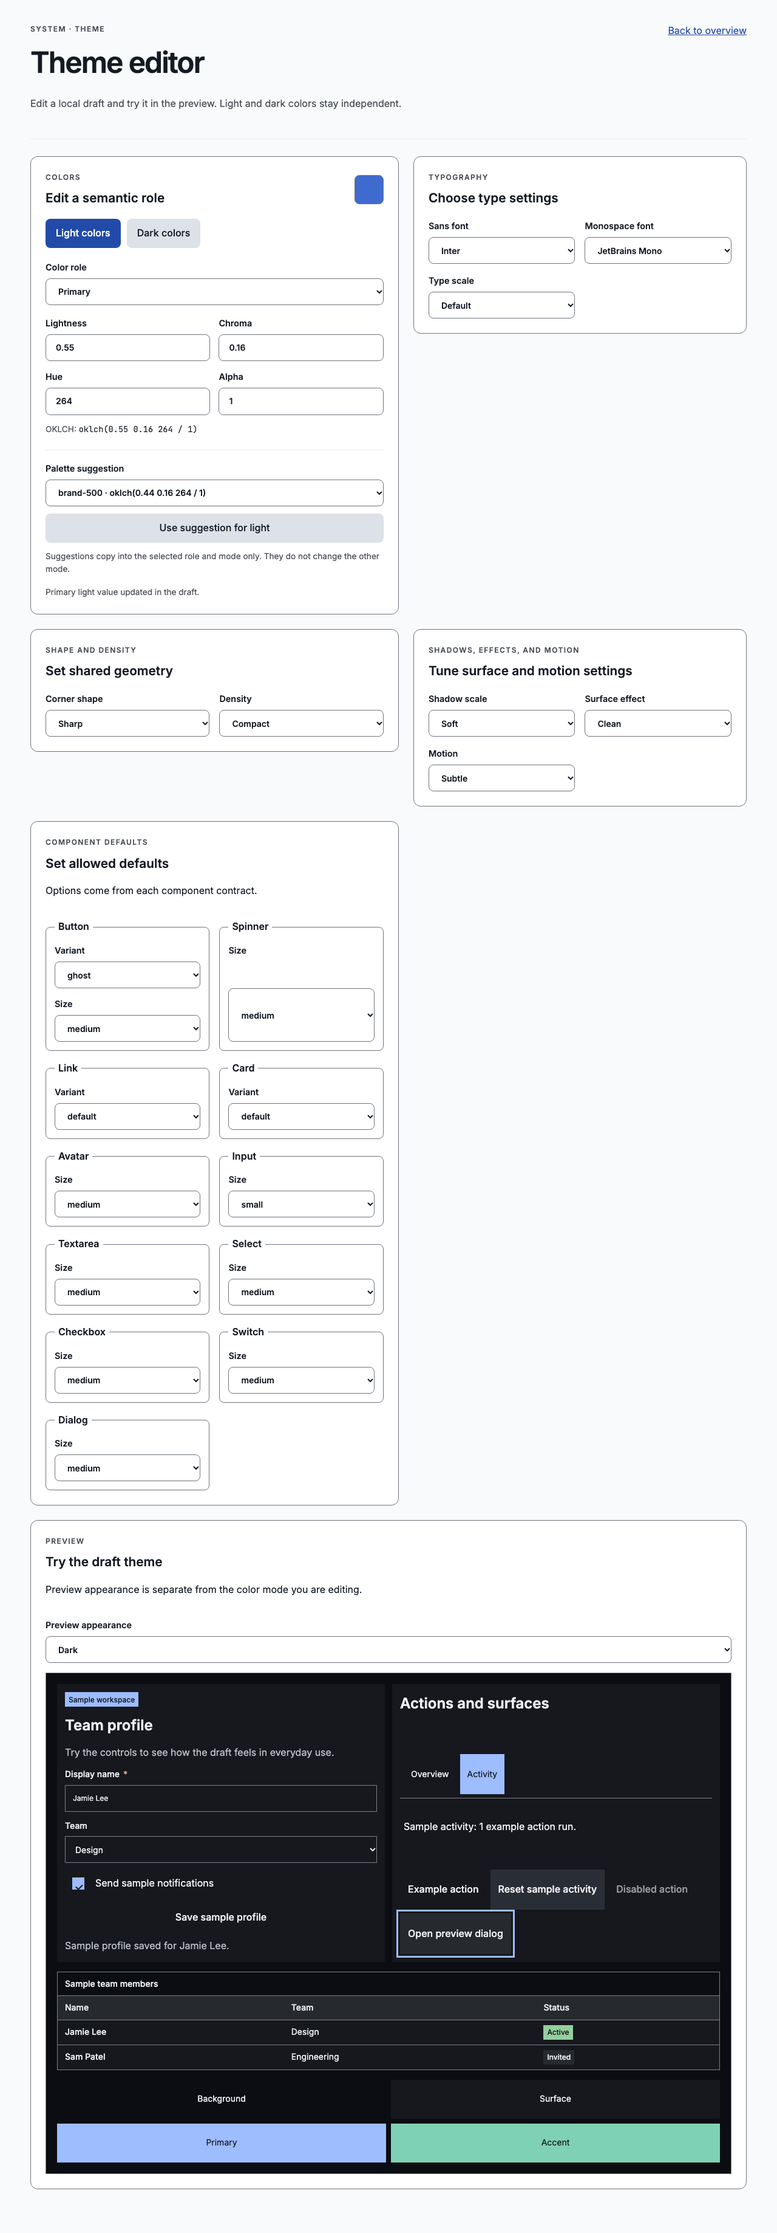
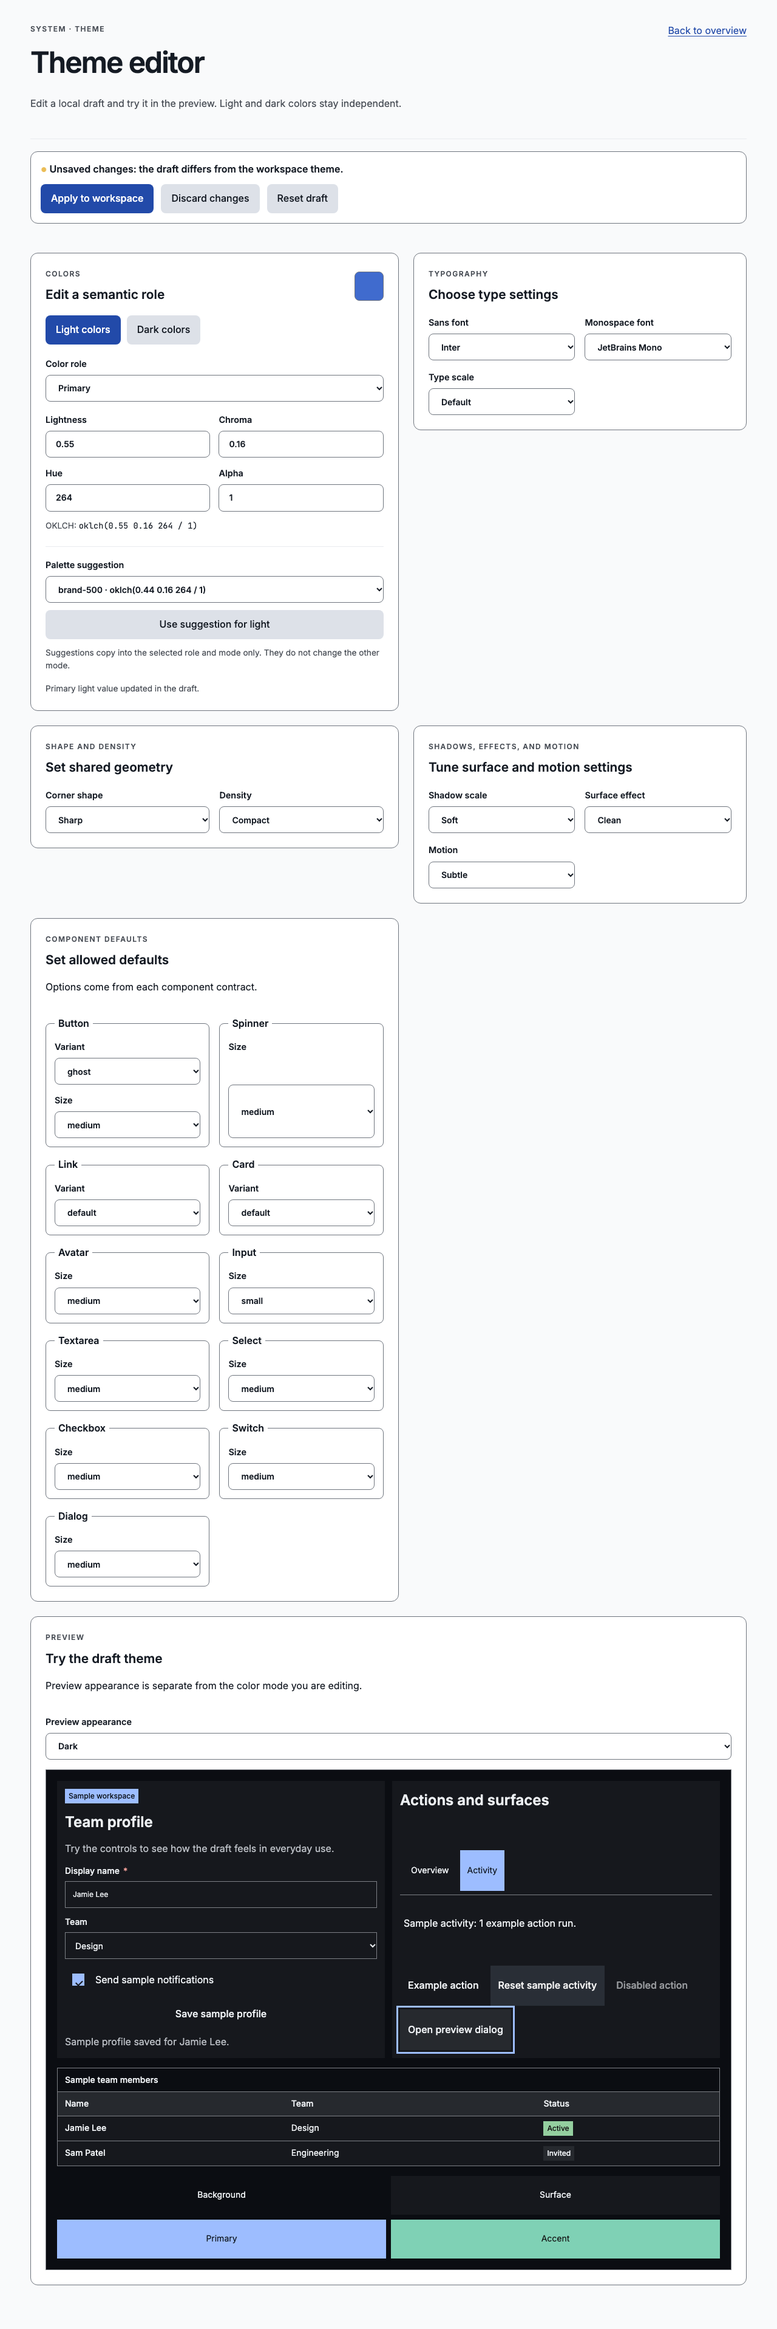
Add M3.5 draft apply, discard, and reset lifecycle

diff --git a/tests/theme-persistence.test.ts b/tests/theme-persistence.test.ts
@@ -5,7 +5,7 @@ import {
   buildThemeBootstrapScript, createPersistenceEnvelope, isAllowedBootstrapValue,
   parseStoredSettings, SETTINGS_STORAGE_KEY,
 } from '@/lib/theme/persistence';
-import { createThemeStores, initializeThemeStores, persistWorkspaceSettings } from '@/lib/theme/stores';
+import { applyDraft, createThemeStores, discardDraft, initializeThemeStores, persistWorkspaceSettings, resetDraft } from '@/lib/theme/stores';
 
 describe('versioned theme settings', () => {
   const settings = { settingsVersion: 1 as const, theme: defaultTheme, appearance: 'system' as const };
@@ -67,5 +67,80 @@ describe('versioned theme settings', () => {
 
   it('keeps the early bootstrap inline script syntactically valid', () => {
     expect(() => new Function(buildThemeBootstrapScript())).not.toThrow();
+  });
+});
+
+describe('draft lifecycle actions', () => {
+  const storageFor = (memory: Map<string, string>) => ({ getItem: (k: string) => memory.get(k) ?? null, setItem: (k: string, v: string) => { memory.set(k, v); } });
+  const edited = { ...defaultTheme, radius: defaultTheme.radius === 'curvy' ? 'sharp' as const : 'curvy' as const };
+
+  function setup(appearance: 'light' | 'dark' | 'system' = 'dark') {
+    const memory = new Map([[SETTINGS_STORAGE_KEY, JSON.stringify(createPersistenceEnvelope({ settingsVersion: 1, theme: defaultTheme, appearance }, 2, registry))]]);
+    const stores = createThemeStores();
+    initializeThemeStores(stores, registry, storageFor(memory));
+    return { memory, stores };
+  }
+
+  it('tracks unsaved state by settings only, ignoring theme identity', () => {
+    const { stores } = setup();
+    stores.draft.getState().setTheme({ ...defaultTheme, id: 'custom', basedOn: defaultTheme.id });
+    expect(stores.draft.getState().dirty).toBe(false);
+    stores.draft.getState().setTheme(edited);
+    expect(stores.draft.getState().dirty).toBe(true);
+  });
+
+  it('applies the draft with custom identity, bumps the revision once, preserves appearance, and saves', () => {
+    const { memory, stores } = setup('dark');
+    stores.draft.getState().setTheme(edited);
+    expect(applyDraft(stores, registry, storageFor(memory))).toMatchObject({ status: 'applied', persisted: true });
+    const applied = stores.applied.getState();
+    expect(applied.settings.appearance).toBe('dark');
+    expect(applied.settings.theme).toMatchObject({ id: 'custom', basedOn: defaultTheme.id, radius: edited.radius });
+    expect(applied.themeRevision).toBe(3);
+    expect(stores.draft.getState()).toMatchObject({ dirty: false, baseThemeRevision: 3 });
+    const stored = PersistenceEnvelopeSchema.parse(JSON.parse(memory.get(SETTINGS_STORAGE_KEY)!));
+    expect(stored.themeRevision).toBe(3);
+    expect(stored.settings.appearance).toBe('dark');
+    expect(applyDraft(stores, registry, storageFor(memory)).status).toBe('unchanged');
+    expect(stores.applied.getState().themeRevision).toBe(3);
+  });
+
+  it('restores the stock preset identity when the draft matches it again', () => {
+    const { memory, stores } = setup();
+    stores.draft.getState().setTheme(edited);
+    applyDraft(stores, registry, storageFor(memory));
+    resetDraft(stores);
+    applyDraft(stores, registry, storageFor(memory));
+    expect(stores.applied.getState().settings.theme).toEqual(defaultTheme);
+    expect(stores.applied.getState().themeRevision).toBe(4);
+  });
+
+  it('discards to the applied theme and resets to the default preset without touching the workspace', () => {
+    const { memory, stores } = setup();
+    stores.draft.getState().setTheme(edited);
+    applyDraft(stores, registry, storageFor(memory));
+    stores.draft.getState().setTheme({ ...edited, density: 'compact' });
+    discardDraft(stores);
+    expect(stores.draft.getState()).toMatchObject({ theme: stores.applied.getState().settings.theme, dirty: false });
+    const before = memory.get(SETTINGS_STORAGE_KEY);
+    resetDraft(stores);
+    expect(stores.draft.getState().theme).toEqual(defaultTheme);
+    expect(stores.draft.getState().dirty).toBe(true);
+    expect(stores.applied.getState().settings.theme.radius).toBe(edited.radius);
+    expect(memory.get(SETTINGS_STORAGE_KEY)).toBe(before);
+  });
+
+  it('keeps session-only applies out of storage and survives write failures', () => {
+    const session = createThemeStores();
+    initializeThemeStores(session, registry, null);
+    session.draft.getState().setTheme(edited);
+    expect(applyDraft(session, registry, null)).toMatchObject({ status: 'applied', persisted: false });
+    expect(session.applied.getState().settings.theme.radius).toBe(edited.radius);
+    const { stores } = setup();
+    stores.draft.getState().setTheme(edited);
+    const result = applyDraft(stores, registry, { getItem: () => null, setItem: () => { throw new Error('quota'); } });
+    expect(result.persisted).toBe(false);
+    expect(result.notice).toMatch(/could not be saved/);
+    expect(stores.applied.getState().settings.theme.radius).toBe(edited.radius);
   });
 });

diff --git a/app/system/theme/page.tsx b/app/system/theme/page.tsx
@@ -4,10 +4,12 @@ import { useStore } from 'zustand';
 import { ThemeScope } from '@/components/theme/ThemeScope';
 import { useThemeStores } from '@/components/theme/ThemeLifecycleProvider';
 import { Button } from '@/components/ui/button';
+import { Link } from '@/components/ui/link';
 import { Input } from '@/components/ui/input';
 import { Select } from '@/components/ui/select';
 import { registry } from '@/lib/data/registry';
 import type { Mode, Oklch } from '@/lib/contract/schema';
+import { applyDraft, discardDraft, resetDraft } from '@/lib/theme/stores';
 import styles from './theme.module.css';
 import { ThemePreview } from './ThemePreview';
 
@@ -29,6 +31,10 @@ export default function ThemeEditorPage() {
   const stores = useThemeStores();
   const theme = useStore(stores.draft, state => state.theme);
   const setTheme = useStore(stores.draft, state => state.setTheme);
+  const dirty = useStore(stores.draft, state => state.dirty);
+  const persistence = useStore(stores.applied, state => state.persistence);
+  const initialized = useStore(stores.applied, state => state.initialized);
+  const notice = useStore(stores.applied, state => state.notice);
   const [mode, setMode] = useState<Mode>('light');
   const [previewAppearance, setPreviewAppearance] = useState<'light' | 'dark' | 'system'>('light');
   const [role, setRole] = useState<keyof typeof theme.colors.light>('primary');
@@ -69,11 +75,35 @@ export default function ThemeEditorPage() {
     setMessage(`${componentId} ${property} default updated in the draft.`);
   }
 
+  function apply() {
+    let storage: Storage | null = null;
+    try { storage = window.localStorage; } catch { /* Blocked storage leaves the change session-only. */ }
+    try {
+      const result = applyDraft(stores, registry, storage);
+      setMessage(result.status === 'unchanged' ? 'The draft already matches the workspace theme.'
+        : result.persisted ? 'Draft applied to the workspace and saved.' : (result.notice ?? 'Draft applied to the workspace for this session.'));
+    } catch (error) {
+      setMessage(`The draft could not be applied: ${error instanceof Error ? error.message : 'it is not a valid theme.'} Your draft is unchanged.`);
+    }
+  }
+  function discard() { discardDraft(stores); setMessage('Changes discarded. The draft matches the workspace theme.'); }
+  function reset() { resetDraft(stores); setMessage('Draft reset to the default preset. Apply to change the workspace.'); }
+
   return <main className={styles.page}>
     <header className={styles.header}>
       <div><p className={styles.eyebrow}>SYSTEM · THEME</p><h1>Theme editor</h1><p>Edit a local draft and try it in the preview. Light and dark colors stay independent.</p></div>
-      <a href="/">Back to overview</a>
+      <Link href="/">Back to overview</Link>
     </header>
+    <section className={styles.actions} aria-label="Draft actions">
+      <p className={styles.unsaved} data-dirty={dirty}>{dirty ? 'Unsaved changes: the draft differs from the workspace theme.' : 'No unsaved changes.'}</p>
+      <div className={styles.actionButtons}>
+        <Button variant="primary" onClick={apply} disabled={!initialized || !dirty}>Apply to workspace</Button>
+        <Button variant="secondary" onClick={discard} disabled={!dirty}>Discard changes</Button>
+        <Button variant="secondary" onClick={reset}>Reset draft</Button>
+      </div>
+      {persistence === 'session-only' && <p className={styles.status}>Changes stay in this tab and reset on refresh because browser storage is unavailable.</p>}
+      {notice && persistence !== 'session-only' && <p className={styles.status}>{notice}</p>}
+    </section>
     <div className={styles.controls}>
       <section className={styles.panel} aria-labelledby="color-heading">
         <div className={styles.sectionHeading}><div><p className={styles.eyebrow}>COLORS</p><h2 id="color-heading">Edit a semantic role</h2></div><span className={styles.swatch} role="img" aria-label={`${labels[role]} preview`} style={{ backgroundColor: cssColor }} /></div>
@@ -104,7 +134,7 @@ export default function ThemeEditorPage() {
           <Button variant="secondary" onClick={usePaletteSuggestion}>Use suggestion for {mode}</Button>
           <p>Suggestions copy into the selected role and mode only. They do not change the other mode.</p>
         </div>
-        <p role="status" aria-live="polite" className={styles.status}>{message || 'Draft colors stay separate from the workspace until Apply is added.'}</p>
+        <p role="status" aria-live="polite" className={styles.status}>{message || 'Draft colors stay separate from the workspace until you apply them.'}</p>
       </section>
 
       <section className={styles.panel} aria-labelledby="type-heading">

diff --git a/tests/browser/theme-lifecycle.spec.ts b/tests/browser/theme-lifecycle.spec.ts
@@ -1,0 +1,59 @@
+import { test, expect } from '@playwright/test';
+
+test('apply, discard, reset, navigation, and refresh follow the theme lifecycle', async ({ page }) => {
+  await page.goto('/system/theme');
+  const apply = page.getByRole('button', { name: 'Apply to workspace' });
+  const discard = page.getByRole('button', { name: 'Discard changes' });
+  await expect(page.getByText('No unsaved changes.')).toBeVisible();
+  await expect(apply).toBeDisabled();
+
+  await page.getByRole('combobox', { name: 'Corner shape' }).selectOption('curvy');
+  await expect(page.getByText(/Unsaved changes/)).toBeVisible();
+  const workspaceRadius = () => page.evaluate(() => document.documentElement.style.getPropertyValue('--sys-radius-control') || getComputedStyle(document.documentElement).getPropertyValue('--sys-radius-control'));
+  const before = await workspaceRadius();
+
+  // Draft survives client-side navigation.
+  await page.getByRole('link', { name: 'Back to overview' }).click();
+  await page.getByRole('link', { name: /Edit the theme/ }).click();
+  await expect(page.getByRole('combobox', { name: 'Corner shape' })).toHaveValue('curvy');
+  await expect(page.getByText(/Unsaved changes/)).toBeVisible();
+  expect(await workspaceRadius()).toBe(before);
+
+  // Discard restores the applied theme.
+  await discard.click();
+  await expect(page.getByRole('combobox', { name: 'Corner shape' })).not.toHaveValue('curvy');
+  await expect(page.getByText('No unsaved changes.')).toBeVisible();
+
+  // Apply updates the workspace and survives refresh; the new draft starts clean.
+  await page.getByRole('combobox', { name: 'Corner shape' }).selectOption('curvy');
+  await apply.click();
+  await expect(page.getByText('Draft applied to the workspace and saved.')).toBeVisible();
+  await expect(page.getByText('No unsaved changes.')).toBeVisible();
+  expect(await workspaceRadius()).not.toBe(before);
+  await page.reload();
+  await expect(page.getByRole('combobox', { name: 'Corner shape' })).toHaveValue('curvy');
+  await expect(page.getByText('No unsaved changes.')).toBeVisible();
+
+  // An unsaved draft is dropped on refresh.
+  await page.getByRole('combobox', { name: 'Density' }).selectOption('compact');
+  await page.reload();
+  await expect(page.getByRole('combobox', { name: 'Density' })).not.toHaveValue('compact');
+
+  // Reset draft loads the default preset but leaves the workspace alone until Apply.
+  await page.getByRole('button', { name: 'Reset draft' }).click();
+  await expect(page.getByRole('combobox', { name: 'Corner shape' })).not.toHaveValue('curvy');
+  await expect(page.getByText(/Unsaved changes/)).toBeVisible();
+  expect(await workspaceRadius()).not.toBe(before);
+});
+
+test('blocked storage keeps applied changes session-only', async ({ page }) => {
+  await page.addInitScript(() => {
+    Object.defineProperty(window, 'localStorage', { get() { throw new Error('blocked'); } });
+  });
+  await page.goto('/system/theme');
+  await expect(page.getByText(/reset on refresh/).first()).toBeVisible();
+  await page.getByRole('combobox', { name: 'Density' }).selectOption('compact');
+  await page.getByRole('button', { name: 'Apply to workspace' }).click();
+  await expect(page.getByText('No unsaved changes.')).toBeVisible();
+  await expect(page.getByRole('combobox', { name: 'Density' })).toHaveValue('compact');
+});

diff --git a/lib/theme/stores.ts b/lib/theme/stores.ts
@@ -3,6 +3,7 @@ import { WorkspaceSettingsSchema, type DesignSystem, type PersistenceEnvelope, t
 import { defaultTheme } from '@/lib/data/registry';
 import { createPersistenceEnvelope, parseStoredSettings, SETTINGS_STORAGE_KEY } from './persistence';
 import { validateTheme } from '@/lib/contract/validate';
+import { assignThemeIdentity, themeValues } from './identity';
 
 export type AppliedThemeState = {
   settings: WorkspaceSettings;
@@ -40,7 +41,7 @@ export function createThemeStores(defaultSettings = defaultWorkspaceSettings): T
   }));
   const draft = createStore<DraftThemeState>()(set => ({
     theme: defaultSettings.theme, baseThemeRevision: 0, dirty: false,
-    setTheme: theme => set(state => ({ theme, dirty: JSON.stringify(theme) !== JSON.stringify(applied.getState().settings.theme), baseThemeRevision: state.baseThemeRevision })),
+    setTheme: theme => set(state => ({ theme, dirty: themeValues(theme) !== themeValues(applied.getState().settings.theme), baseThemeRevision: state.baseThemeRevision })),
     reset: (theme, revision) => set({ theme, baseThemeRevision: revision, dirty: false }),
   }));
   return { defaults, applied, draft };
@@ -90,4 +91,37 @@ export function persistWorkspaceSettings(settingsInput: WorkspaceSettings, theme
 
 export function markStorageBlocked(stores: ThemeStores): void {
   stores.applied.getState().finishInitialization('session-only', 'Changes stay in this tab and reset on refresh because browser storage is blocked.');
+}
+
+export type ApplyResult = { status: 'applied' | 'unchanged'; persisted: boolean; notice: string | null };
+
+/** Replaces the applied theme with the validated draft. Appearance is always preserved. */
+export function applyDraft(stores: ThemeStores, system: DesignSystem, storage: StorageLike | null): ApplyResult {
+  const { settings, themeRevision, persistence } = stores.applied.getState();
+  const theme = assignThemeIdentity(validateTheme(stores.draft.getState().theme, system), system.themePresets);
+  const changed = themeValues(theme) !== themeValues(settings.theme);
+  const nextRevision = changed ? themeRevision + 1 : themeRevision;
+  const nextSettings: WorkspaceSettings = { ...settings, theme };
+  let persisted = false;
+  let notice: string | null = persistence === 'session-only' ? 'Changes stay in this tab and reset on refresh.' : null;
+  if (persistence === 'persistent' && storage) {
+    try { persistWorkspaceSettings(nextSettings, nextRevision, system, storage); persisted = true; }
+    catch { notice = 'Changes were applied for this session but could not be saved. Refresh will reset them.'; }
+  }
+  stores.applied.getState().setSettings(nextSettings, nextRevision);
+  stores.applied.getState().setNotice(notice);
+  stores.draft.getState().reset(theme, nextRevision);
+  return { status: changed ? 'applied' : 'unchanged', persisted, notice };
+}
+
+/** Restores the draft from the applied theme. */
+export function discardDraft(stores: ThemeStores): void {
+  const { settings, themeRevision } = stores.applied.getState();
+  stores.draft.getState().reset(settings.theme, themeRevision);
+}
+
+/** Loads the default preset into the draft only; the workspace changes on Apply. */
+export function resetDraft(stores: ThemeStores): void {
+  const { theme } = stores.defaults.getState().settings;
+  stores.draft.getState().setTheme(theme);
 }

diff --git a/components/ui/link.tsx b/components/ui/link.tsx
@@ -1,9 +1,13 @@
 'use client';
+import NextLink from 'next/link';
 import type { AnchorHTMLAttributes, ReactNode, Ref } from 'react';
 import { useComponentDefaults } from '@/components/theme/ThemeScope';
 import styles from './Link.module.css';
 export type LinkProps = Omit<AnchorHTMLAttributes<HTMLAnchorElement>, 'children'> & { children: ReactNode; href: string; variant?: 'default' | 'subtle'; ref?: Ref<HTMLAnchorElement> };
 export function Link({ variant, className = '', children, ref, ...props }: LinkProps) {
   const defaults = useComponentDefaults('link');
-  return <a {...props} ref={ref} data-variant={variant ?? defaults.variant} className={`${styles.root} ${className}`}>{children}</a>;
+  const common = { 'data-variant': variant ?? defaults.variant, className: `${styles.root} ${className}` };
+  // Page routes navigate client-side so session state such as an open theme draft survives; API routes stay plain anchors.
+  if (props.href.startsWith('/') && !props.href.startsWith('/api/')) return <NextLink {...props} ref={ref} {...common}>{children}</NextLink>;
+  return <a {...props} ref={ref} {...common}>{children}</a>;
 }

diff --git a/app/system/theme/theme.module.css b/app/system/theme/theme.module.css
@@ -37,3 +37,9 @@
 .colorSamples div { display: grid; min-height: 64px; place-items: center; padding: 8px; border-radius: var(--sys-radius-control); font-size: var(--sys-typography-label); }
 @media (max-width: 800px) { .controls { grid-template-columns: minmax(0, 1fr); } }
 @media (max-width: 520px) { .page { width: calc(100% - 32px); padding-top: 24px; } .header { flex-direction: column; } .panel { padding: 16px; } .settingsGrid, .componentDefaults, .previewColumns { grid-template-columns: minmax(0, 1fr); } }
+
+.actions { display: grid; gap: 12px; margin: 20px 0; padding: 16px; border: 1px solid var(--sys-color-border); border-radius: var(--sys-radius-panel); background: var(--sys-color-surface); }
+.actions .status { margin: 0; }
+.unsaved { margin: 0; font-weight: 600; }
+.unsaved[data-dirty='true']::before { content: '● '; color: var(--sys-color-warning); }
+.actionButtons { display: flex; flex-wrap: wrap; gap: 12px; }

diff --git a/docs/planning/milestones-and-tasks.md b/docs/planning/milestones-and-tasks.md
@@ -73,7 +73,7 @@ Goal: top-level decisions propagate predictably without leaking preview edits.
 - [x] M3.2 Add independent light/dark editing, system preference listeners, OKLCH controls, and explicit palette suggestions. [Evidence](../evidence/M3/M3.2/review.md)
 - [x] M3.3 Add typography, radius, density, shadows, clean/depth effects, motion, and valid component-default controls. [Evidence](../evidence/M3/M3.3/review.md)
 - [x] M3.4 Render a scoped multi-component preview; keep portal content inside its theme scope. [Evidence](../evidence/M3/M3.4/review.md)
-- [ ] M3.5 Implement Apply, Discard, Reset draft, unsaved indicator, session navigation, and refresh behavior.
+- [x] M3.5 Implement Apply, Discard, Reset draft, unsaved indicator, session navigation, and refresh behavior. [Evidence](../evidence/M3/M3.5/review.md)
 - [ ] M3.6 Add local contrast calculation for the defined pairs, gamut handling, and warnings for failing draft/applied pairs.
 - [ ] M3.7 Handle blocked/corrupt/incompatible storage, cross-tab Web Lock serialization, stale-draft conflict rejection, latest-envelope sync through the `storage` event, session-only fallback when Web Locks is unavailable, and reduced-motion override.
 - [ ] M3.8 Test lifecycle, global appearance changes during an open draft, mode independence, token propagation, and first paint after OS mode changes between visits. Cover missing/stale/corrupt bootstrap caches, the bootstrap-to-hydration handoff, a resolver test that every emitted value matches the bootstrap allowlist, and controlled concurrent two-tab Apply/appearance sequences, competing stale drafts, queued storage events, and missing-lock fallback.
@@ -166,7 +166,7 @@ Add one entry when a milestone is reviewed. Keep check output and screenshots un
 | --- | --- | --- | --- | --- |
 | M1 | Complete | 2026-10-08 | [M1 review](../evidence/M1/review.md) | Full A02/A15 close in later milestones. |
 | M2 | In progress | 2026-10-09 | [M2 task evidence](../evidence/M2/review.md) | Automated M2.8 review is complete; the quality gate remains open for human keyboard, screen-reader, and WCAG review. |
-| M3 | In progress | 2026-10-11 | [M3.4 review](../evidence/M3/M3.4/review.md) | M3.5–M3.8 remain open. |
+| M3 | In progress | 2026-10-13 | [M3.5 review](../evidence/M3/M3.5/review.md) | M3.6–M3.8 remain open. |
 | M4 | Not started | — | — | — |
 | M5 | Not started | — | — | — |
 | M6 | Not started | — | — | — |

diff --git a/docs/evidence/M3/M3.5/review.md b/docs/evidence/M3/M3.5/review.md
@@ -1,0 +1,16 @@
+# M3.5 Apply, Discard, Reset draft, and unsaved state
+
+Date: 2026-10-13
+
+The Theme editor now has Apply to workspace, Discard changes, Reset draft, and an unsaved indicator. The logic lives in `applyDraft`, `discardDraft`, and `resetDraft` in `lib/theme/stores.ts`.
+
+- **Apply** validates the draft, assigns theme identity (`custom` with `basedOn`, or the stock preset ID when values match), replaces the applied theme, and writes the envelope. It preserves appearance, increments `themeRevision` only when the theme actually changed, and refreshes the draft baseline. In session-only mode, or if the write fails, the theme is applied for the session with an explanatory notice.
+- **Discard** restores the draft from the applied theme. **Reset draft** loads the default preset into the draft only; the workspace and storage are untouched until Apply.
+- **Unsaved indicator** compares theme values only, ignoring `id` and `basedOn`. Apply and Discard are disabled when there is nothing to apply.
+- **Navigation:** the app `Link` now navigates client-side for page routes (API routes stay plain anchors), so the draft survives moving between pages. Refresh restores applied settings and starts a clean draft.
+
+Not in this task (M3.7): Web Lock serialization, pending save state, stale-draft rejection, and storage-event sync. Apply currently writes without a lock, so the multi-tab guarantee does not hold yet.
+
+Verification: `npm run check` passed (107 unit tests, including 5 new lifecycle tests; production build). All 27 production browser tests passed, including two new journeys: apply/discard/reset/navigation/refresh, and blocked storage staying session-only. Human screen-reader and WCAG review remain open.
+
+M3.5 is complete. Next: M3.6 local contrast calculation and warnings.
